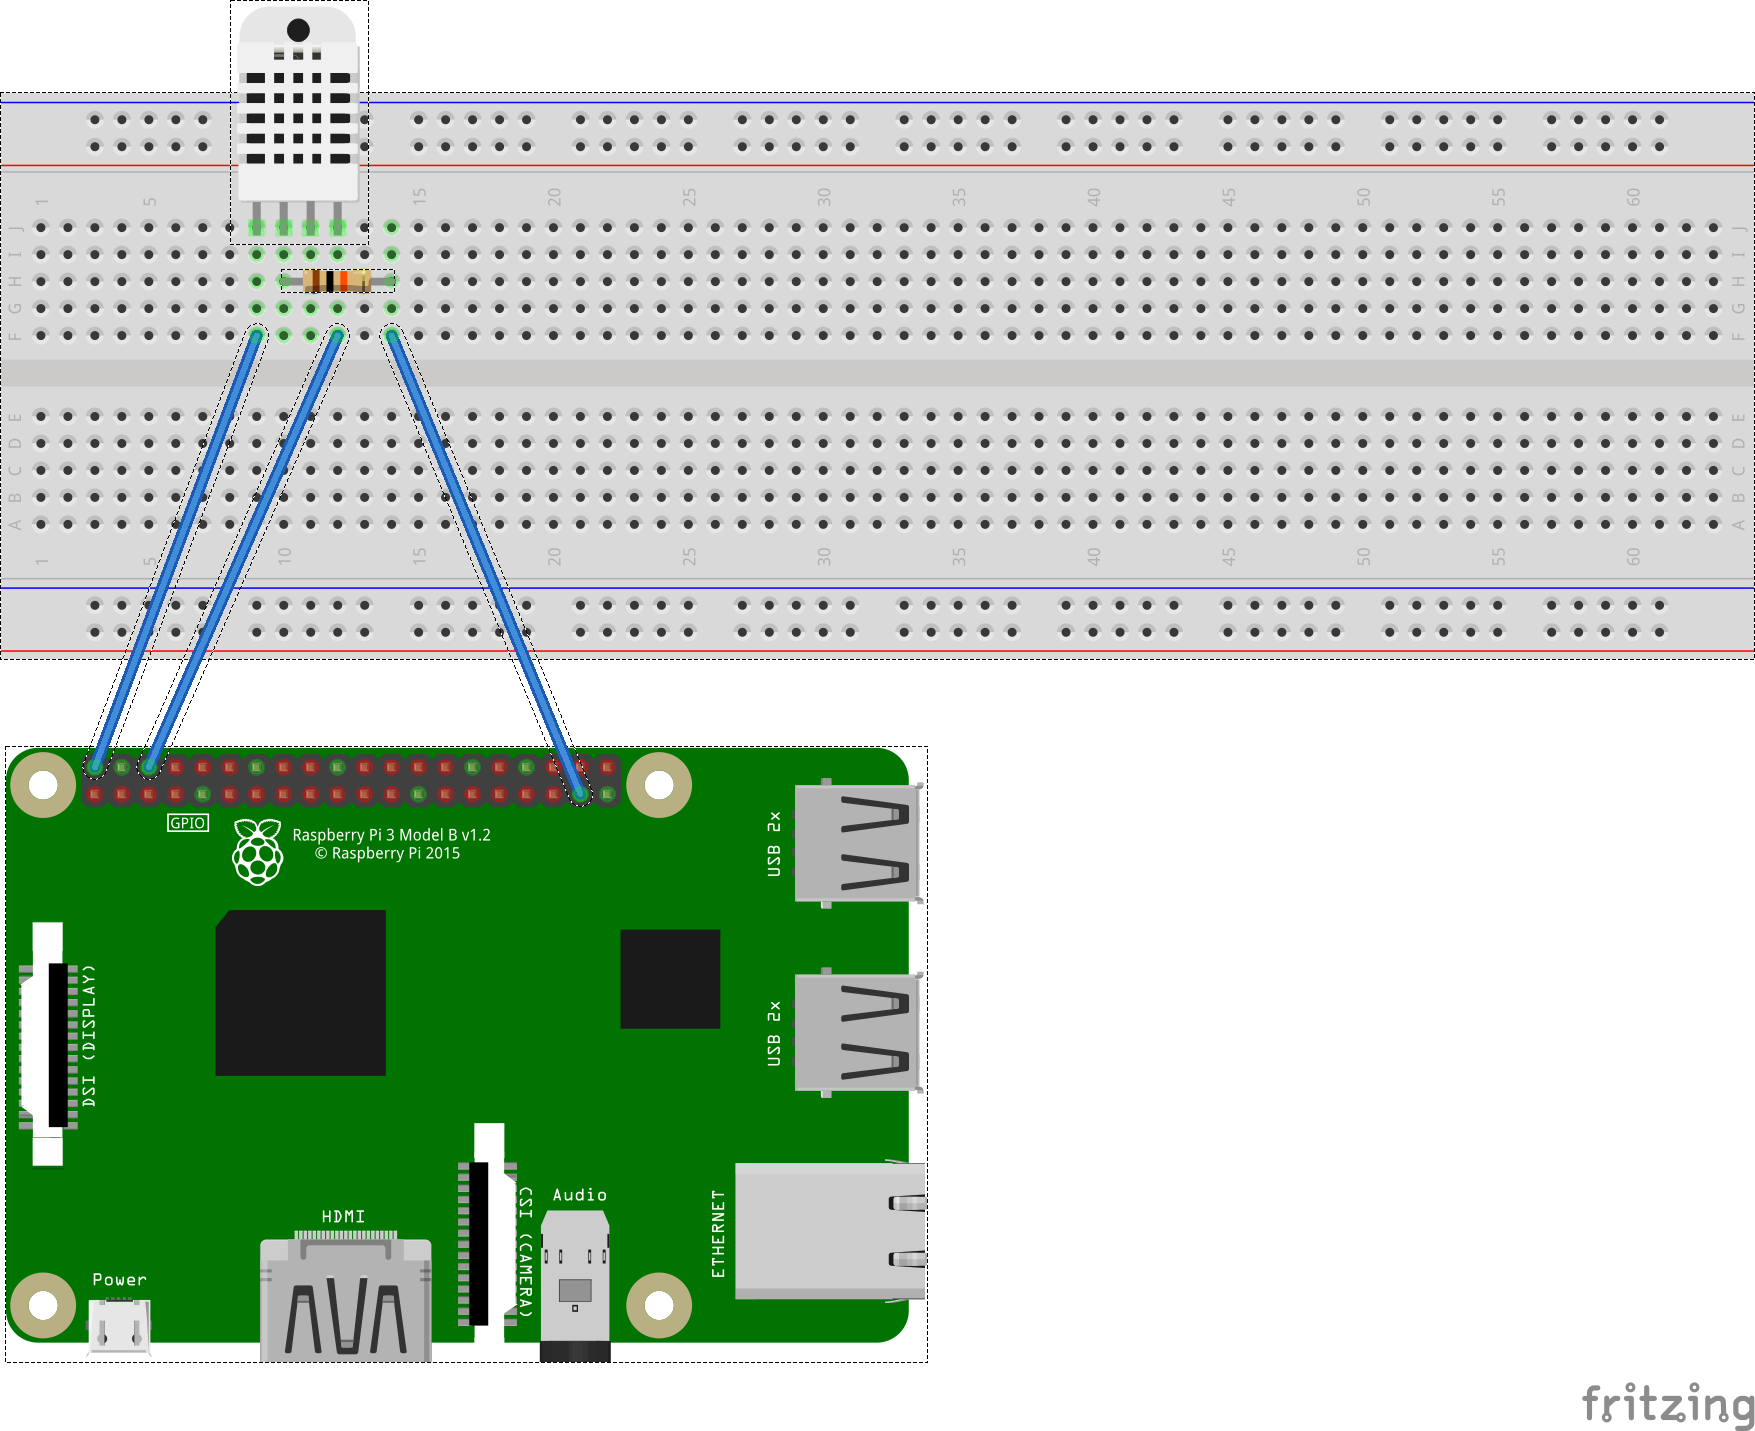
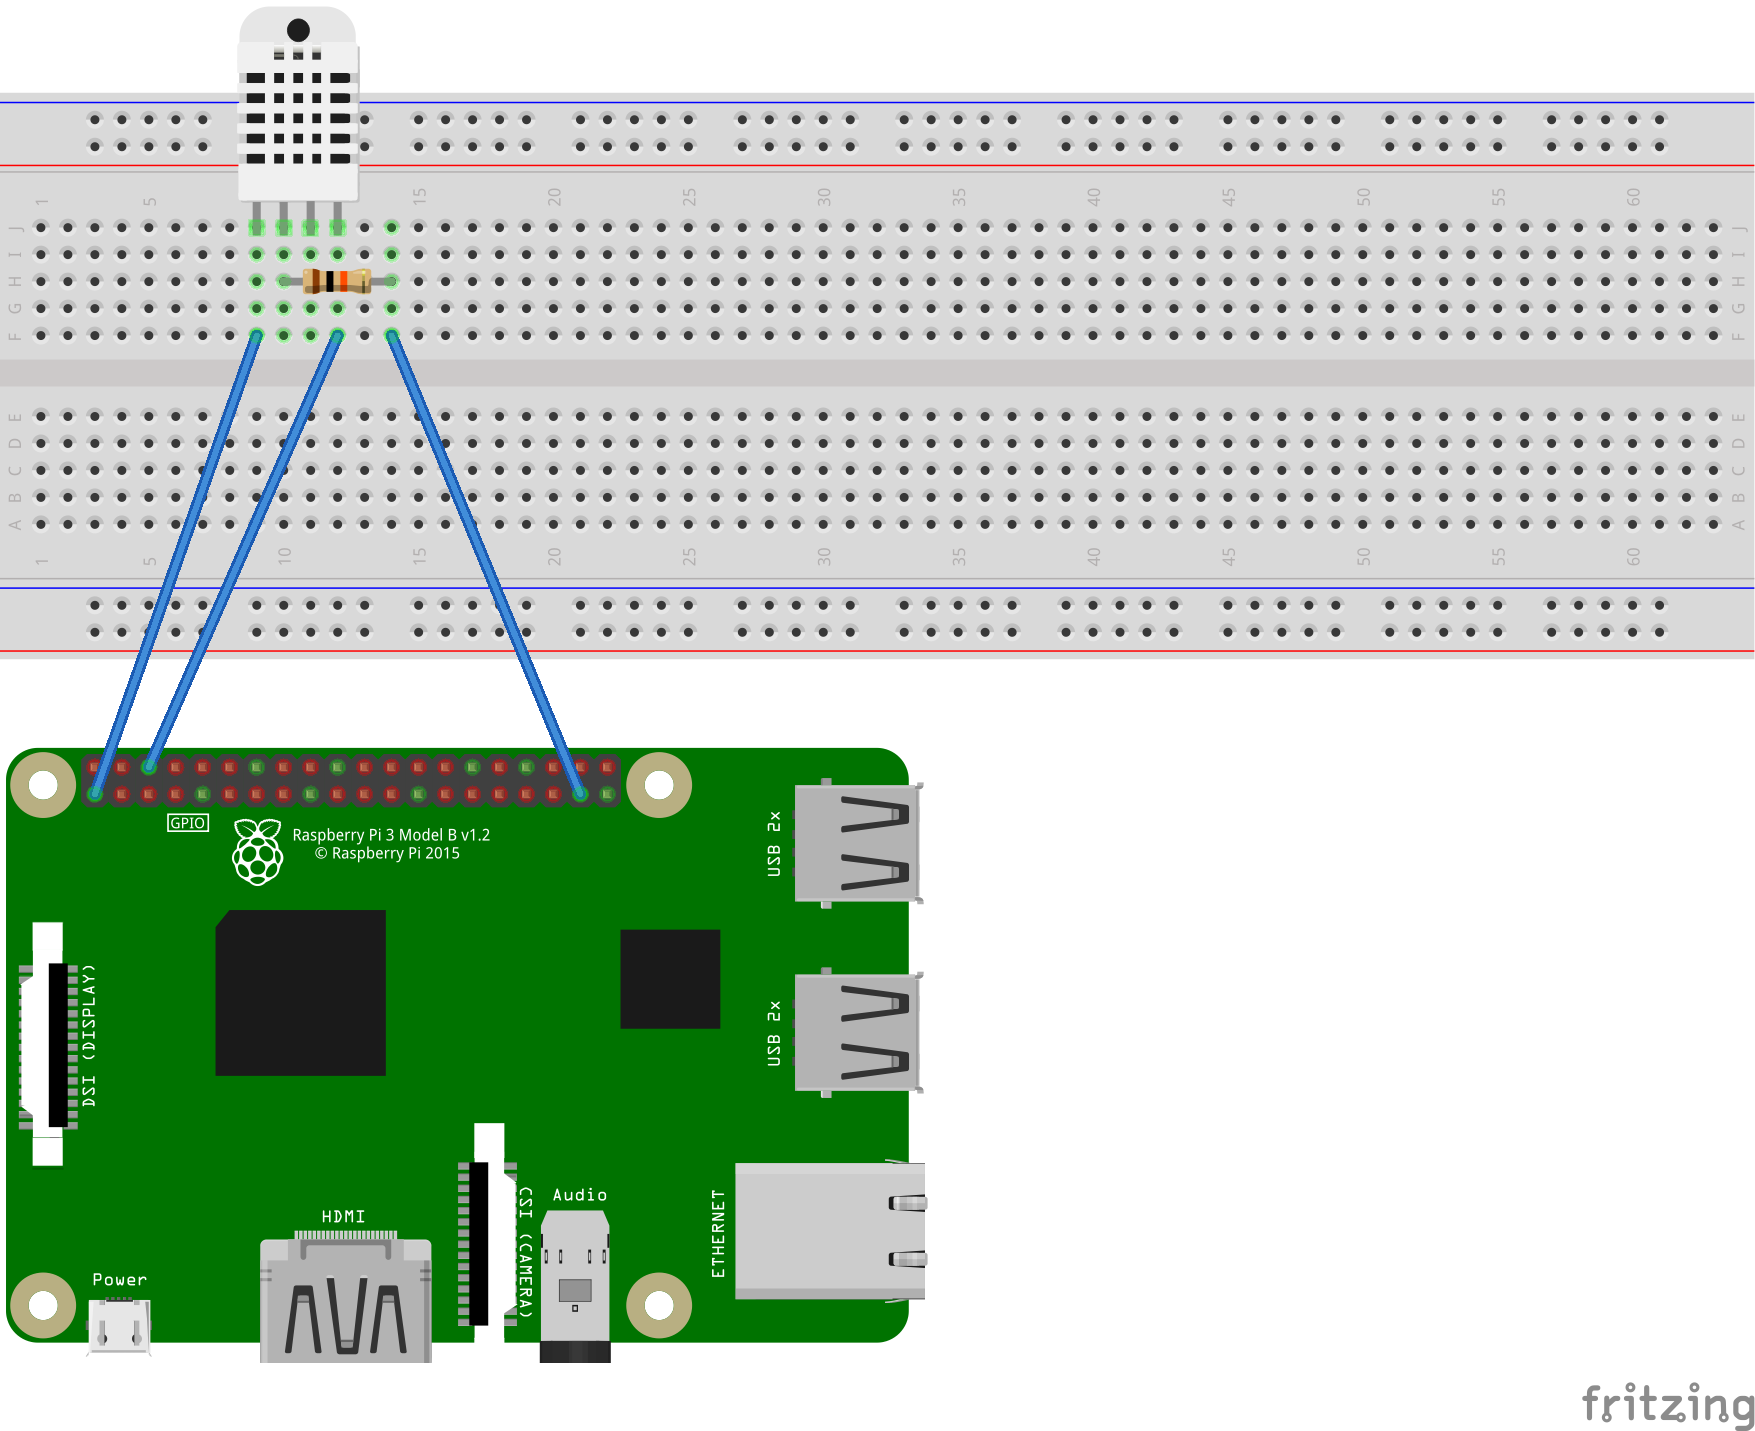
adjusting based on PR feedback

Changed region(s): [[0.0308, 0.3075, 0.1231, 0.5535], [0.1231, 0.246, 0.1538, 0.3075], [0.2154, 0.5842, 0.2462, 0.615]]

diff --git a/src/devices/Dhtxx/README.md b/src/devices/Dhtxx/README.md
@@ -157,7 +157,9 @@ Now if your sensor is an I2C sensor, it should just work perfectly on Windows 10
 
 #### 1-Wire Protocol Circuit
 
-Simply connect your DHTxx data pin to GPIO26 (physical pin 37), the ground to the ground (physical pin 6) and the VCC to +3.3V (physical pin 1).   You should probably add a 10k pullup resistor between GPIO26 (physical pin 37) and 3.3v (physical pin 1), to be within the specifications of the sensor, although it will usually work with software-pullups, which this library uses if available.
+Simply connect your DHTxx data pin to GPIO26 (physical pin 37), the ground to the ground (physical pin 6) and the VCC to +3.3V (physical pin 1). You should probably add a 10k pullup resistor between GPIO26 (physical pin 37) and 3.3v (physical pin 1), to be within the specifications of the sensor, although it will usually work with software-pullups, which this library uses if available.
+
+![schema](./dht22.png)
 
 Some sensors are already sold with the 10K resistor. Connect the GPIO26 to the _data_ pin, its position can vary depending on the integrator.
 
